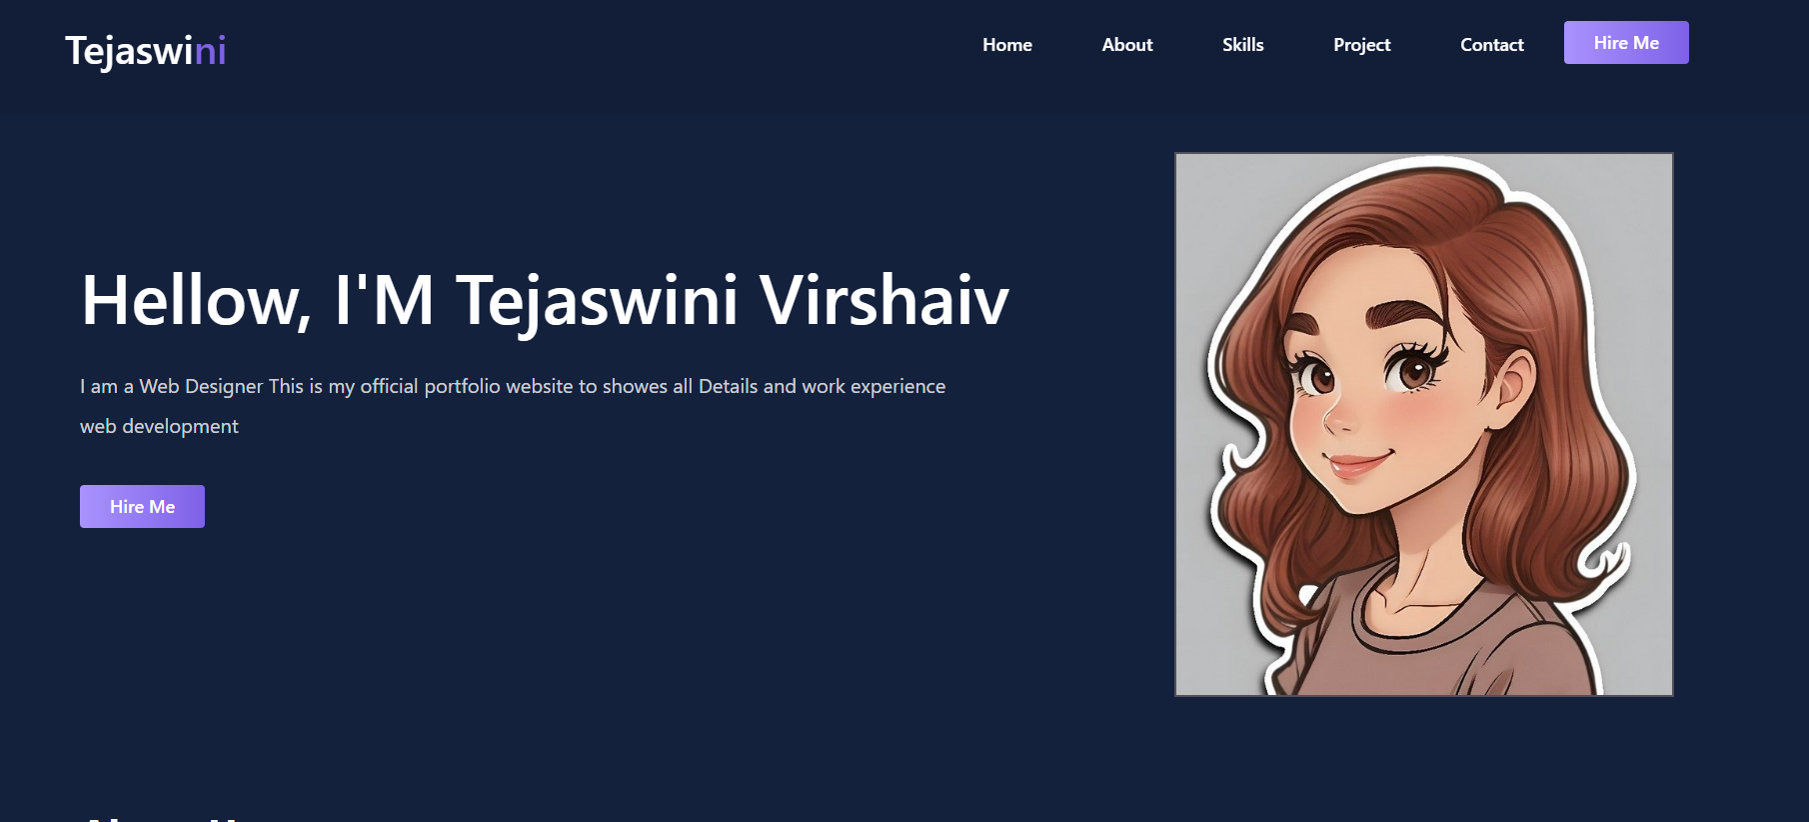
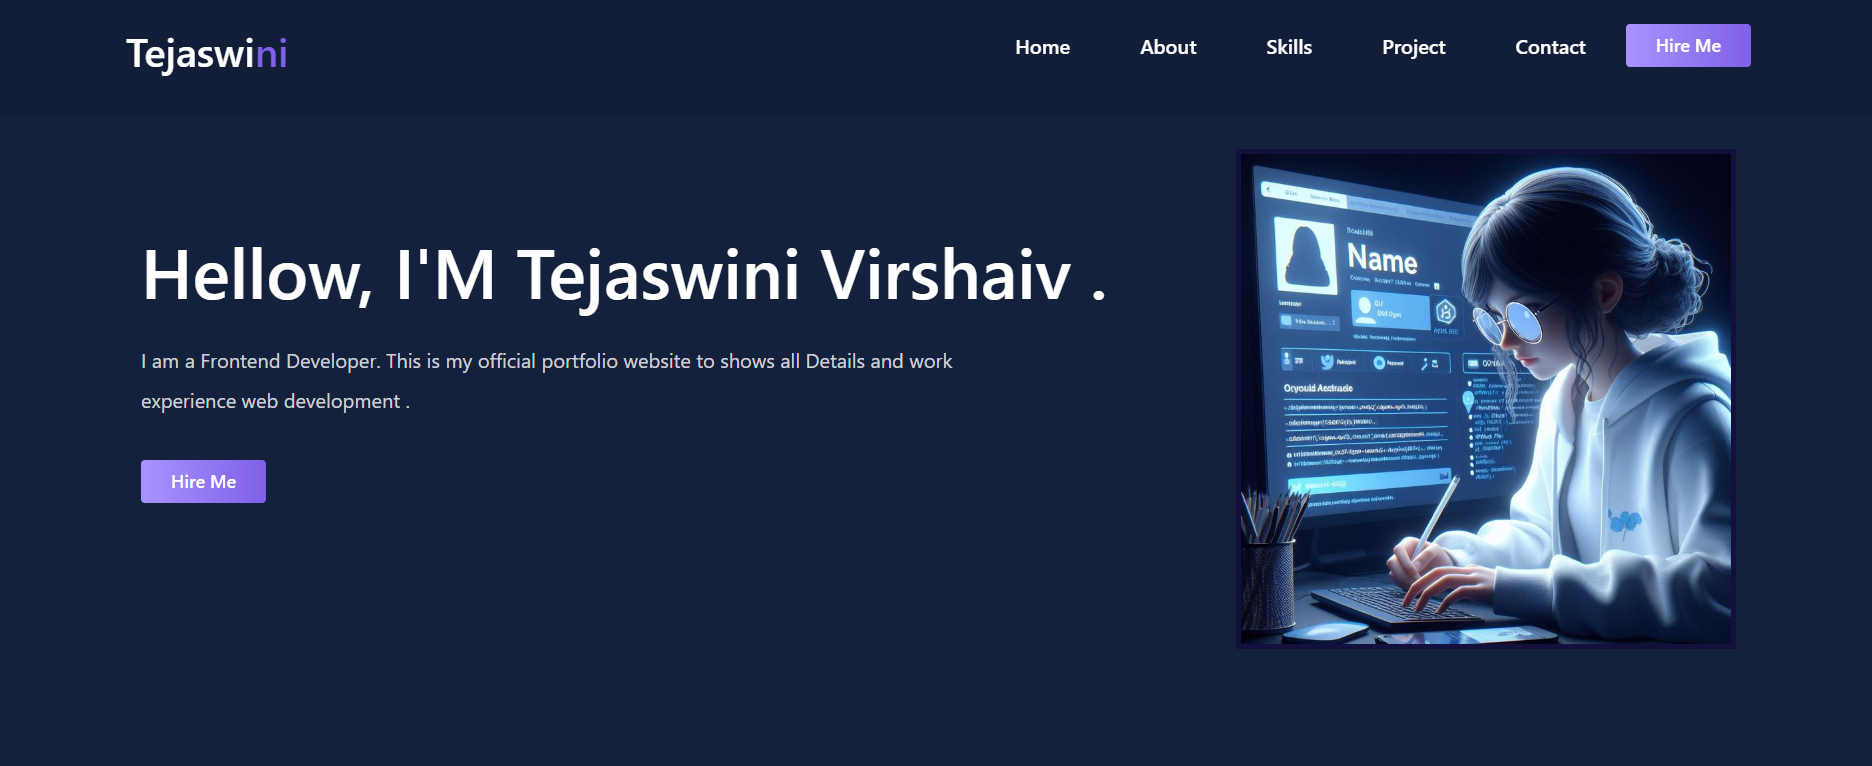
add changes

diff --git a/src/compount/Home/Home.js b/src/compount/Home/Home.js
@@ -7,10 +7,10 @@ export default function Home() {
     <>
       <section className="home-conatiner" id="#">
         <div className="home-content">
-          <h2>Hellow, I'M Tejaswini Virshaiv .</h2>
+          <h2>Hellow, I'M Tejaswini Virshaiv</h2>
           <p>
-            I am a Frontend Developer . This is my official portfolio website to
-            showes all Details and work experience web development .
+            I am a Frontend Developer. This is my official portfolio website to
+            shows all Details and work experience web development .
           </p>
 
           <button className="btn">Hire Me</button>

diff --git a/src/compount/About/About.js b/src/compount/About/About.js
@@ -14,8 +14,8 @@ export default function About() {
             <h2>I am Tejaswini Virshaiv & </h2>
             <h2> I am Frontend Developer </h2>
             <p>
-              I am skilled at Frontend technology like HTML, CSS and Javascript
-              their use to built, design and improve responsive webiste and web
+              I am skilled at Frontend technology like HTML, CSS and JavaScript
+              their use to built, design and improve responsive website and web
               application .
             </p>
             <div className="education-text">
